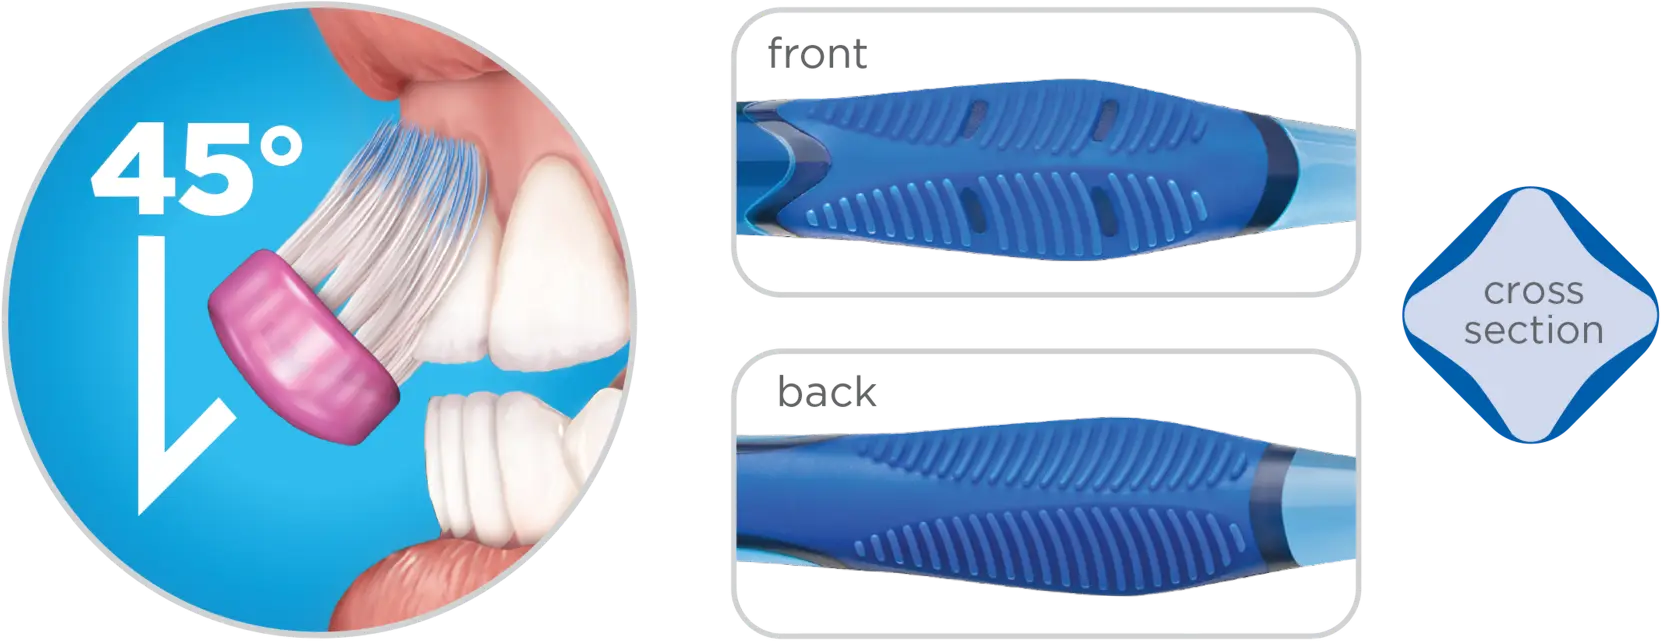
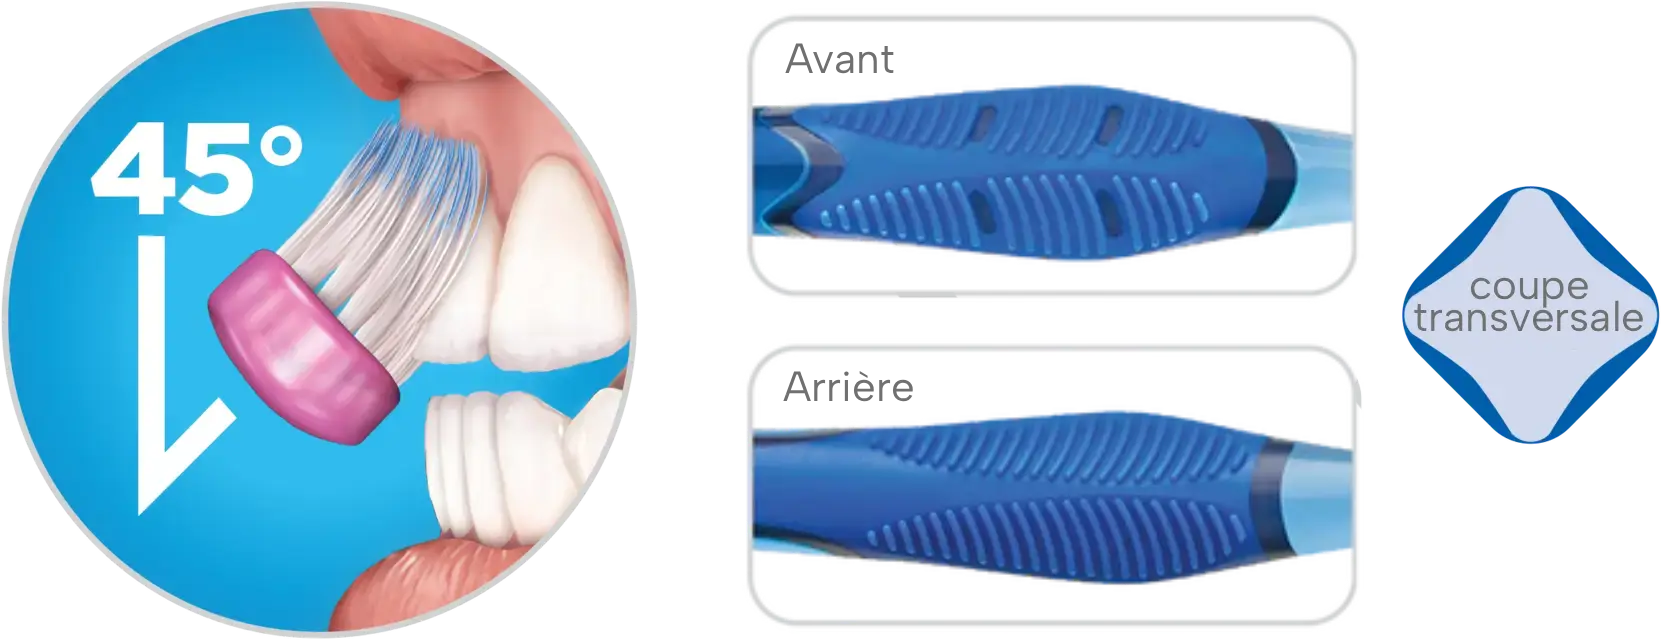
new updates

diff --git a/src/routes/Toothbrush/ToothbrushPatient/RecommendationSlider/Slides/SensitiveClean/SensitiveClean.tsx b/src/routes/Toothbrush/ToothbrushPatient/RecommendationSlider/Slides/SensitiveClean/SensitiveClean.tsx
@@ -1,6 +1,6 @@
 import * as S from "../ToothbrushSlide.styles";
 import ToothbrushImage from "../../../../../../assets/toothbrush/Adult/Slide1/Brush-SensitiveClean.webp";
-import ContentImage from "../../../../../../assets/toothbrush/patient/recommendations/528-SensitiveClean-BottomImg.webp";
+import ContentImage from "../../../../../../assets/toothbrush/patient/recommendations/528-SensitiveClean-BottomImg-updated.png";
 
 export default function SensitiveCleanSlide() {
   return (
@@ -27,7 +27,7 @@ export default function SensitiveCleanSlide() {
           >
             <li>
               <span>
-                Nettoyage 6x plus efficace avec des soies ultra-souples.
+                Nettoyage 6x plus propre avec des soies ultra-souples.
                 <sup>17</sup>
               </span>
             </li>
@@ -41,14 +41,14 @@ export default function SensitiveCleanSlide() {
             </li>
             <li>
               <span>
-                Maintenant avec des brins antibactériens.<sup>16</sup>
+                Maintenant avec des soies antibactériens.<sup>16</sup>
               </span>
             </li>
           </S.BulletList>
 
           <S.ContentImageWrapper $marginTop="1.2rem" $marginLeft="0.2rem">
             <S.ContentImage
-              $width="90%"
+              $width="98%"
               src={ContentImage}
               alt="Sensitive Clean Technique features and benefits"
             />

diff --git a/src/routes/Accessories/Accessories.tsx b/src/routes/Accessories/Accessories.tsx
@@ -4,7 +4,7 @@ import { Outlet, useLocation } from "react-router-dom";
 import ModuleContainer from "../../components/ModuleContainer/ModuleContainer";
 
 import Slide1Row1Img from "../../assets/accessories/Slide1Row1Img.webp";
-import Slide1Row2Img from "../../assets/accessories/Slide1Row2Img.webp";
+// import Slide1Row2Img from "../../assets/accessories/Slide1Row2Img.webp";
 import Slide2Row1Img from "../../assets/accessories/Slide2Row1Img.webp";
 import Slide2Row2Img from "../../assets/accessories/Slide2Row2Img.webp";
 
@@ -77,7 +77,7 @@ export default function Accessories() {
                     marginTop="6px"
                   />
                 </S.Row>
-                <S.Row>
+                {/* <S.Row>
                   <S.RowWrapperInner $gap={"1.2rem"}>
                     <S.TextWrapper>
                       <h2>CAPUCHONS DE VOYAGE</h2>
@@ -112,7 +112,7 @@ export default function Accessories() {
                     width="30px"
                     marginTop="6px"
                   />
-                </S.Row>
+                </S.Row> */}
               </S.Slide>
               <S.Slide>
                 <S.Row>

diff --git a/src/routes/Toothbrush/ToothbrushPatient/RecommendationSlider/Slides/DeepClean/DeepClean.tsx b/src/routes/Toothbrush/ToothbrushPatient/RecommendationSlider/Slides/DeepClean/DeepClean.tsx
@@ -1,6 +1,6 @@
 import * as S from "../ToothbrushSlide.styles";
 import ToothbrushImage from "../../../../../../assets/toothbrush/Adult/Slide1/Brush-DeepClean.webp";
-import ContentImage from "../../../../../../assets/toothbrush/patient/recommendations/525-DeepClean-BottomImg.webp";
+import ContentImage from "../../../../../../assets/toothbrush/patient/recommendations/525-DeepClean-BottomImg-updated.png";
 
 export default function DeepCleanSlide() {
   return (
@@ -26,7 +26,7 @@ export default function DeepCleanSlide() {
             </li>
             <li>
               <span>
-                Élimination de plaque 10x plus efficace.<sup>15</sup>
+                Élimination de plaque.<sup>15</sup>
               </span>
             </li>
             <li>
@@ -38,7 +38,7 @@ export default function DeepCleanSlide() {
 
           <S.ContentImageWrapper $marginTop="0.8rem" $marginLeft="1.2rem">
             <S.ContentImage
-              $width="70%"
+              $width="88%"
               src={ContentImage}
               alt="Deep Clean Technique features and benefits"
             />

diff --git a/src/routes/Toothbrush/ToothbrushTech/display/TaperedBristles/TaperedBristles.tsx b/src/routes/Toothbrush/ToothbrushTech/display/TaperedBristles/TaperedBristles.tsx
@@ -12,11 +12,12 @@ export default function TaperedBristles() {
         <S.Description>
           <li>
             La conception de précision des soies extrêmement effilées leur
-            permet de pénétrer profondément pour nettoyer jusqu&#39;à 2,7 mm
+            permet de pénétrer profondément pour nettoyer jusqu&#39;à 3,1 mm
             dans le sillon gingival et jusqu&#39;à 1,4 cm le long de la gencive
             et entre les dents1. Les 6 mm à l&#39;extrémité des soies sont
             effilés jusqu&#39;à une pointe arrondie de 0,01 mm. Normalement, les
-            soies arrondies font moins de 0,5 mm et sont effilées à 0,02 mm.<sup>14</sup>
+            soies arrondies font moins de 0,5 mm et sont effilées à 0,02 mm.
+            <sup>14</sup>
           </li>
         </S.Description>
         <S.ColLeftImgWrapper>

diff --git a/src/routes/Btc/Patient/RecommendationSlider/ProxabrushSlide/variants/Proxabrush1314.tsx b/src/routes/Btc/Patient/RecommendationSlider/ProxabrushSlide/variants/Proxabrush1314.tsx
@@ -10,7 +10,7 @@ export default function Proxabrush1314() {
           Proxabrush<sup>MD</sup>
         </>
       }
-      subtitle="MICRO PETIT"
+      subtitle="Tres PETIT"
       sideImage={ProxabrushImg1314}
       bottomImage={BottomImg}
       bullets={[

diff --git a/src/routes/Btc/Patient/RecommendationSlider/ProxabrushSlide/variants/Proxabrush1614.tsx b/src/routes/Btc/Patient/RecommendationSlider/ProxabrushSlide/variants/Proxabrush1614.tsx
@@ -10,7 +10,7 @@ export default function Proxabrush1614() {
           Proxabrush<sup>MD</sup>
         </>
       }
-      subtitle="WIDE"
+      subtitle="LARGE"
       sideImage={Proxabrush1614Img}
       bottomImage={BottomImg1614}
       bullets={[

diff --git a/src/routes/Partners/Partners.tsx b/src/routes/Partners/Partners.tsx
@@ -97,7 +97,7 @@ export default function Partners() {
                         <h4>Patient</h4>
                         <p>
                           Création d’expériences qui peuvent transformer la
-                          relation des patients avec l’hygiène.
+                          relation des patients avec l’hygiène bucco-dentaire.
                         </p>
                       </S.ColTextWrapper>
                     </S.ImgTextWrapper>

diff --git a/src/routes/Toothbrush/ToothbrushKids/Slides/Slide6/Slide6.tsx b/src/routes/Toothbrush/ToothbrushKids/Slides/Slide6/Slide6.tsx
@@ -107,7 +107,7 @@ const Slide6 = () => (
           { label: "Article", value: "4591" },
           { label: "Texture", value: "Souple" },
           { label: "Taille", value: "Compacte" },
-          { label: "Touffes", value: "23" },
+          { label: "Touffes", value: "30" },
         ],
       ]}
     />

diff --git a/src/routes/Toothbrush/ToothbrushPatient/RecommendationSlider/Slides/EnamelClean/EnamelClean.tsx b/src/routes/Toothbrush/ToothbrushPatient/RecommendationSlider/Slides/EnamelClean/EnamelClean.tsx
@@ -40,7 +40,7 @@ export default function EnamelCleanSlide() {
             <li>
               <span>
                 Les soies Dome Trim<sup>MD</sup> sont cliniquement conçues pour
-                nettoyer souse.<sup>18, 19</sup>
+                nettoyer sous la gencive.<sup>18, 19</sup>
               </span>
             </li>
           </S.BulletList>

diff --git a/src/routes/Toothbrush/ToothbrushPatient/RecommendationSlider/Slides/SensitiveCare/SensitiveCare.tsx b/src/routes/Toothbrush/ToothbrushPatient/RecommendationSlider/Slides/SensitiveCare/SensitiveCare.tsx
@@ -17,7 +17,7 @@ export default function SensitiveCareSlide() {
             <S.Title $fontSize="clamp(24px, 6vw, 3.2rem)" $letterSpacing="-2px">
               TECHNIQUE<sup>MD</sup>
             </S.Title>
-            <S.Subtitle>Sensitive Care</S.Subtitle>
+            <S.Subtitle>Ultra Sensitive Clean</S.Subtitle>
           </S.TitlesWrapper>
 
           <S.BulletList

diff --git a/src/routes/Toothbrush/ToothbrushTech/display/QuadGrip/QuadGrip.tsx b/src/routes/Toothbrush/ToothbrushTech/display/QuadGrip/QuadGrip.tsx
@@ -9,7 +9,7 @@ export default function QuadGripDisplay() {
     <S.ContentWrapper>
       <S.HeaderRight>
         <S.MainTitle>
-          GUM<sup>MD</sup> Appuie-pouce Quad-Grip<sup>MD</sup> Thumb Pad
+          GUM<sup>MD</sup> Repose-pouce Quad-Grip<sup>MD</sup>
         </S.MainTitle>
         <S.Description>
           <li>

diff --git a/src/routes/Toothbrush/ToothbrushSpecialty/ToothbrushSpecialty.tsx b/src/routes/Toothbrush/ToothbrushSpecialty/ToothbrushSpecialty.tsx
@@ -294,7 +294,6 @@ export default function ToothbrushAdult() {
               </S.TextAndImgWrapperOuter>
             </S.Column>
 
-            {/* Right Column - Denture Brush */}
             <S.Column $gap="1.2rem">
               <BrushImgWrapper
                 $containerWidth="50%"